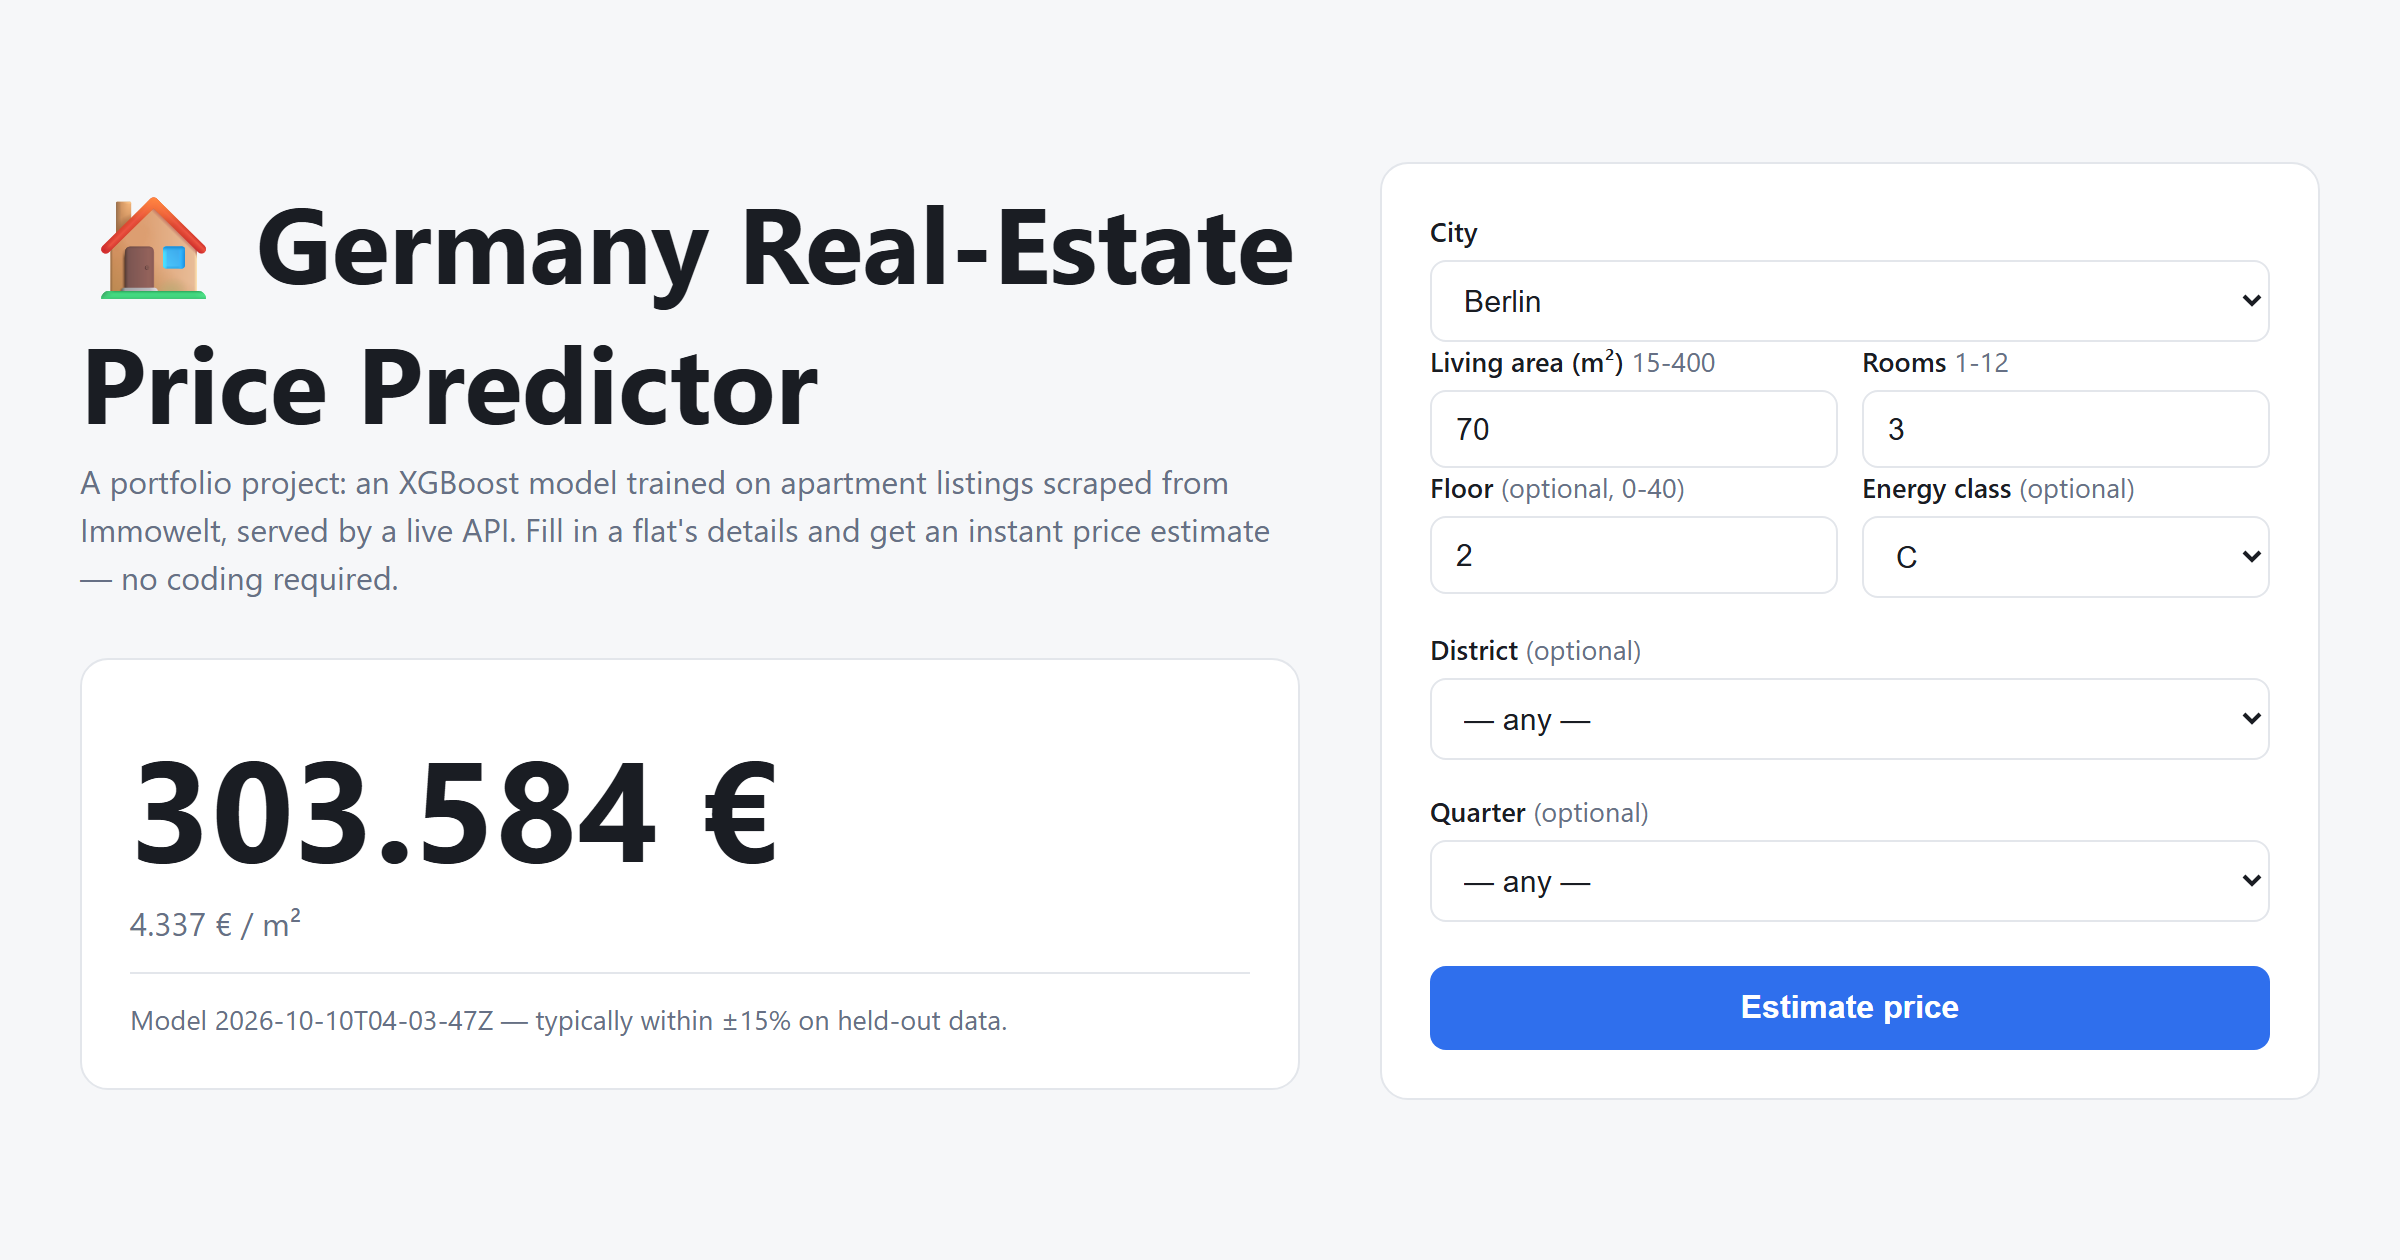
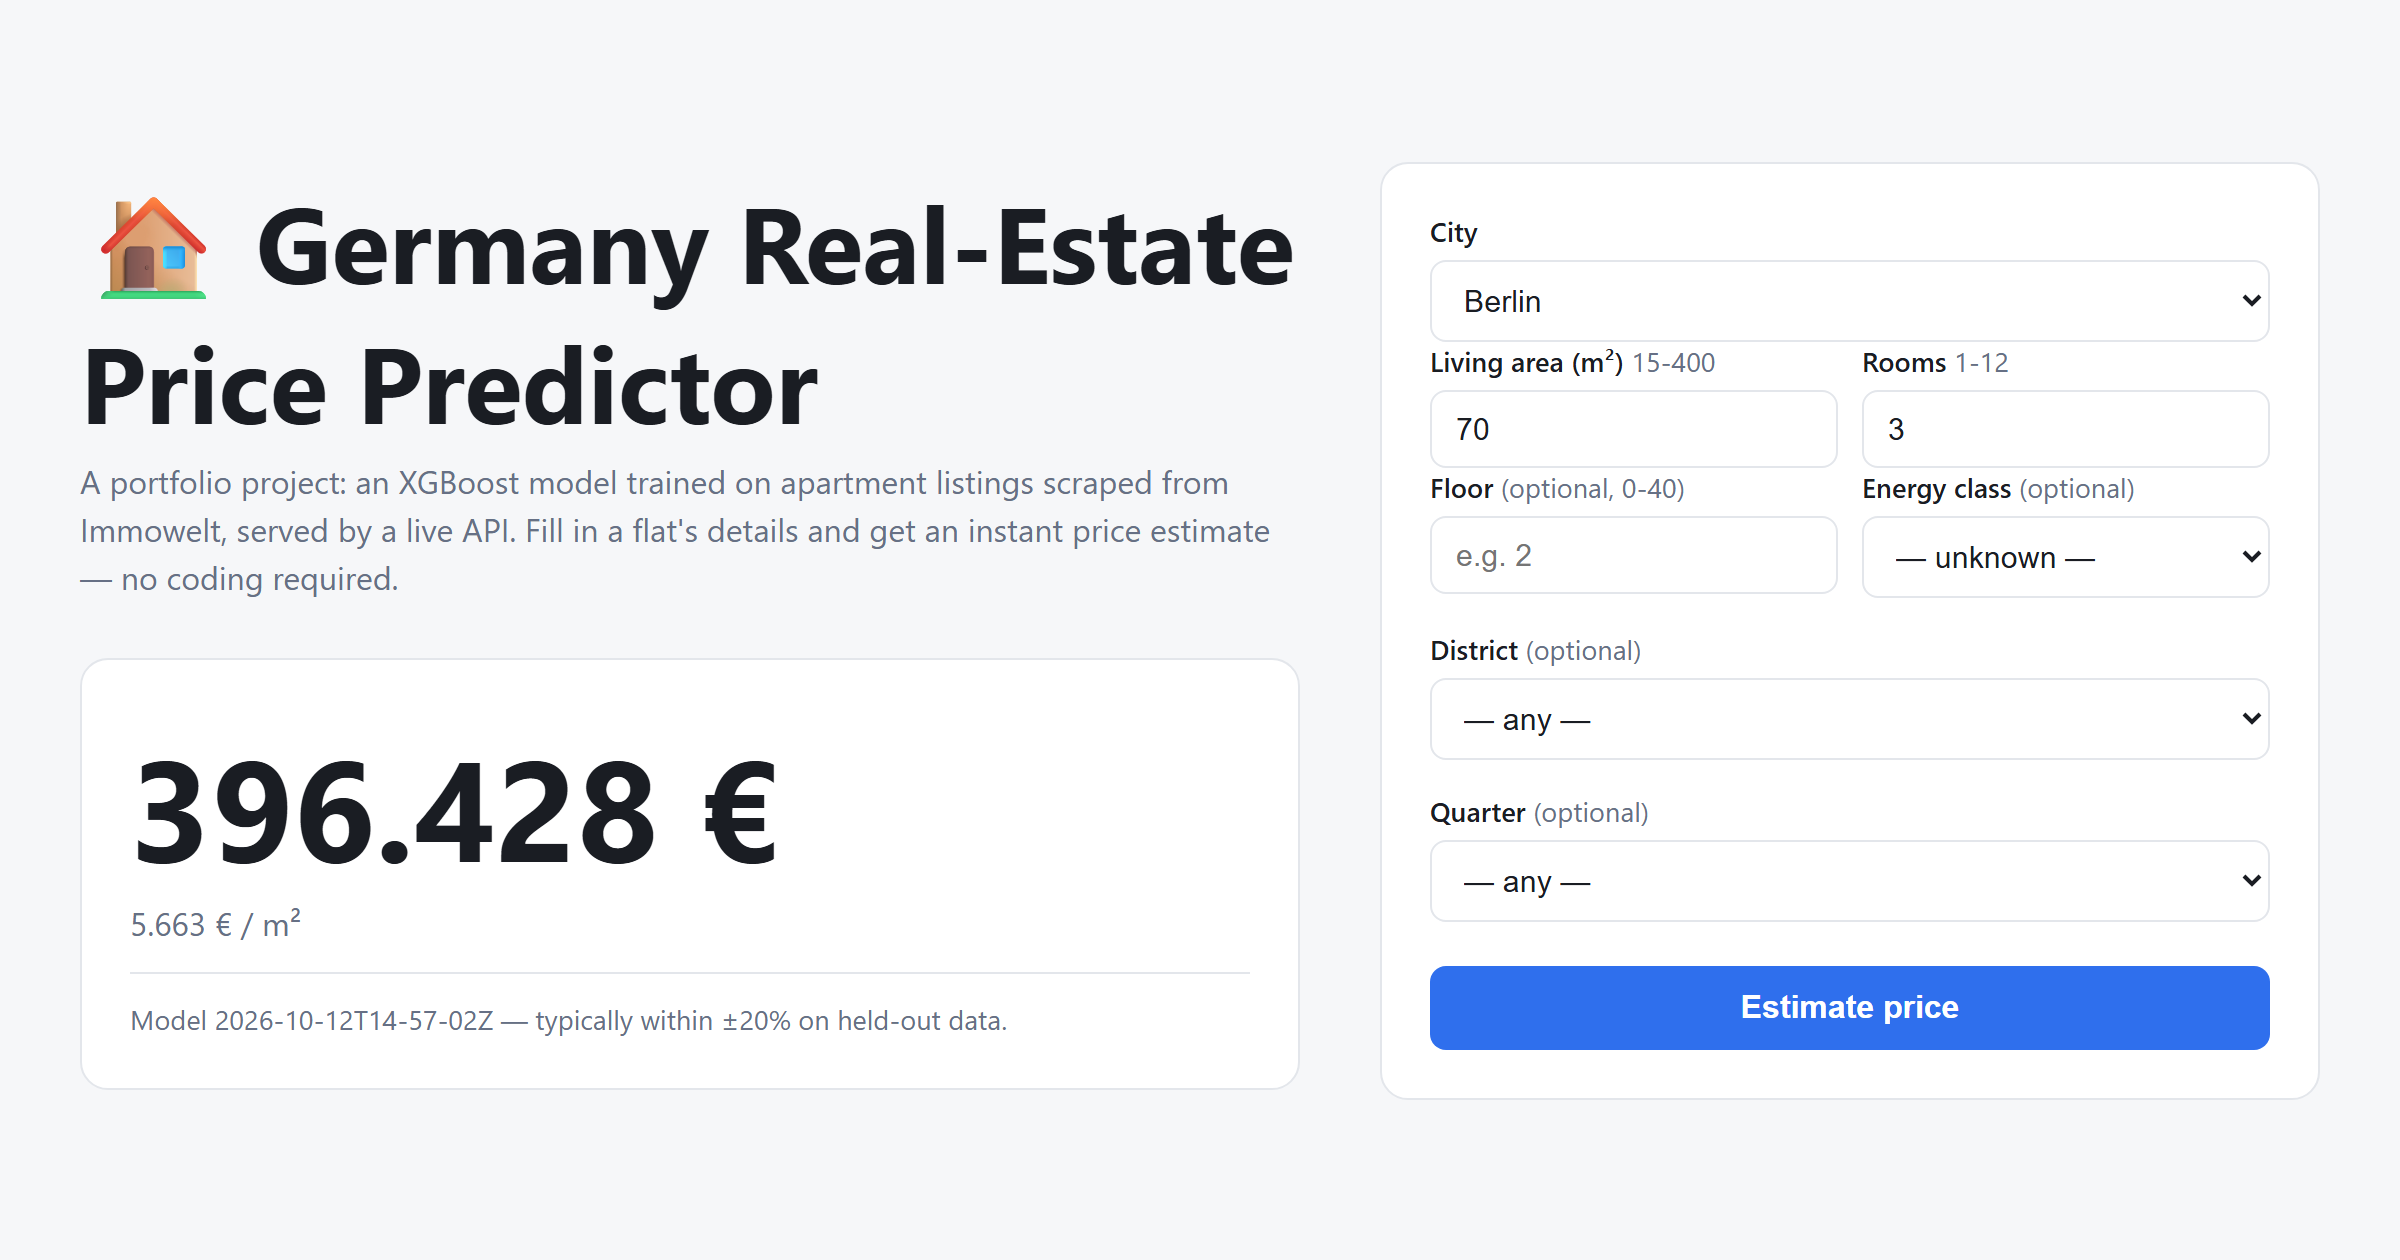
Re-render og-image from the retrained model; update model card snapshot
The location-dropout model (2026-10-12T14-57-02Z) is live. The preview now
shows the default demo path -- Berlin, 70 m2, 3 rooms, optional fields left
empty -- at 396,428 EUR (5,663 EUR/m2, scraped Berlin median for 55-85 m2:
5,123), with the honest city-only "typically within ±20%".

diff --git a/scripts/make_og_image.py b/scripts/make_og_image.py
@@ -9,9 +9,10 @@
 
 First run only: ``uv run --with playwright playwright install chromium``.
 
-Fills the form with a realistic example (city-wide Berlin: naming a premium
-district would need a price to match, and the model's location effect is
-weak), clicks "Estimate price" and waits for the model's answer. Then it lays
+Fills the form the way most visitors will: Berlin, 70 m2, 3 rooms, every
+optional field left at its default (no district, floor or energy class -- the
+"city only" case the model is graded on separately). Clicks "Estimate price"
+and waits for the model's answer. Then it lays
 the same page out wide -- title and result on the left, the filled form on the
 right -- keeping the page's own fonts, colours and spacing, grows the title
 and price as far as the frame allows, and screenshots at 2x (2400x1260).
@@ -96,8 +97,6 @@ def main() -> None:
         page.select_option("#city", "berlin")
         page.fill("#area", "70")
         page.fill("#rooms", "3")
-        page.fill("#floor", "2")
-        page.select_option("#energy", "C")
         page.click("#go")
         page.wait_for_selector("#result.show", timeout=15_000)
 

diff --git a/MODEL_CARD.md b/MODEL_CARD.md
@@ -48,18 +48,19 @@ median % error is what `/predict` returns as `typical_error_pct` (the
 city-only one, below, for requests without location detail). They aren't
 copied here because the model retrains every week and this file would go stale.
 
-A recent snapshot, to show the scale: model `2026-10-10T04-03-47Z`, 1,197 rows
-(957 train / 240 hold-out), hold-out median APE 15.5 %, MAPE 21.2 %,
-R² (log) 0.84, R² (euro) 0.81. Read: roughly **half of predictions land within
-~15 %** of the asking price. The gap between log-R² and euro-R² is the long right
+A recent snapshot, to show the scale: model `2026-10-12T14-57-02Z`, 1,197 rows
+(957 train / 240 hold-out), hold-out median APE 16.7 %, MAPE 22.3 %,
+R² (log) 0.83, R² (euro) 0.77; city-only median APE 20.1 %. Read: roughly
+**half of predictions land within ~17 %** of the asking price when the
+district or postal code is known, ~20 % from the city alone. The gap between log-R² and euro-R² is the long right
 tail: a few large errors on expensive flats dominate the squared and absolute
 euro metrics.
 
 Hold-out is graded twice: on the listings as scraped, and again as **city-only
 requests** (`holdout_city_only` at `/model`: the same flats with district,
 quarter and postal code removed). The second is what the demo page sends unless
-a district is picked, and it is less precise (about 20 % median APE vs about
-17 % on 2026-10-12 data). `/predict` returns that city-only figure as
+a district is picked, and it is less precise (20.1 % median APE vs 16.7 % for
+model `2026-10-12T14-57-02Z`). `/predict` returns that city-only figure as
 `typical_error_pct` when a request has no location detail.
 
 Why it's graded separately: every scraped listing has a district and postal
